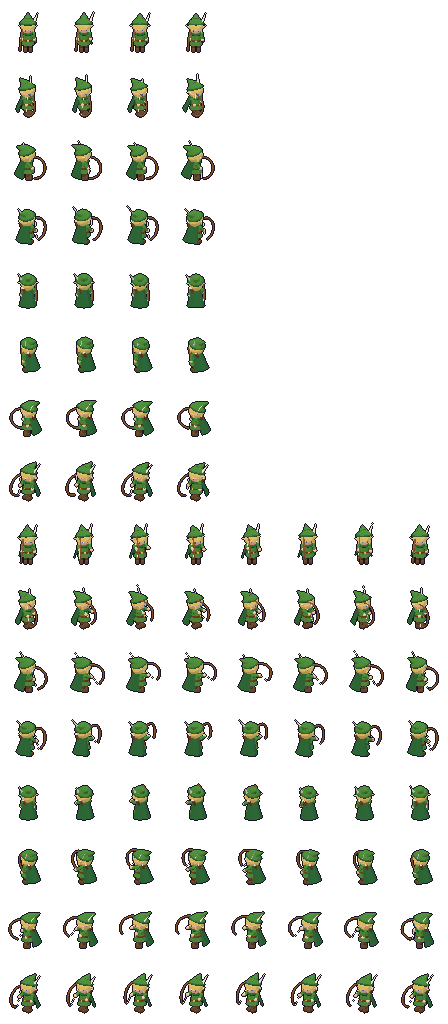
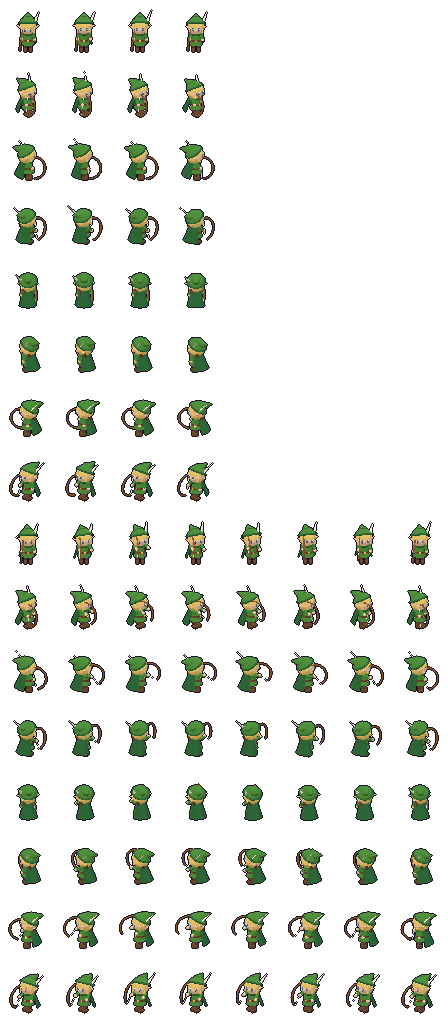
feat: readable sprite faces and full bat wings
- The sprite baker gives heroes a slightly bigger head tipped up toward the viewer and
  bigger eyes (sprites only), so hood and hat brims and fringes stop hiding the eyes.
  Eyes are now `eye` joints in the sculpted rig so the baker can find them.
- Bat wings are rebuilt like the art: an arm rising to a clawed wrist, fingers fanning
  out and a membrane scalloped between them, about as tall as wide, swept back so it
  still shows in profile. The Dread Gaze and Sky Sovereign get bigger spans, and the
  Dread Gaze bigger horns.
- All sprite sheets re-baked.

diff --git a/src/app/game/battle-map/battlefield-models.ts b/src/app/game/battle-map/battlefield-models.ts
@@ -364,12 +364,13 @@ function humanoid(root: THREE.Group, p: Palette, o: Outfit): Rig {
   };
 }
 
-/** Big chibi eyes: dark ovals with a catch-light. */
+/** Big chibi eyes: dark ovals with a catch-light. Named `eye` so the sprite baker can find them. */
 function eyes(head: THREE.Object3D, p: Palette, iris = 0x2b2140, y = -0.035, gap = 0.068): void {
   for (const side of [-1, 1]) {
     const z = Math.sqrt(HEAD_R ** 2 - gap ** 2 - y ** 2) - 0.004;
-    put(head, ball(0.026), p.paint(iris), [side * gap, y, z], undefined, [0.75, 1.25, 0.5]);
-    put(head, ball(0.008), p.paint(0xffffff), [side * gap + 0.008, y + 0.012, z + 0.011]);
+    const eye = joint(head, 'eye', [side * gap, y, z]);
+    put(eye, ball(0.026), p.paint(iris), [0, 0, 0], undefined, [0.75, 1.25, 0.5]);
+    put(eye, ball(0.008), p.paint(0xffffff), [0.008, 0.012, 0.011]);
   }
 }
 
@@ -1525,7 +1526,11 @@ function pyreCore(root: THREE.Group, p: Palette): void {
   }
 }
 
-/** Bat-like wing membrane with finger spars; extends along +x, mirrored for the left side. */
+/**
+ * Bat wing: an arm rising to a clawed wrist, fingers fanning out from it, and a membrane
+ * scalloped between their tips, about as tall as it is wide like the art's. Extends along +x,
+ * mirrored for the left side.
+ */
 function batWing(
   root: THREE.Object3D,
   p: Palette,
@@ -1536,15 +1541,26 @@ function batWing(
   spar: number,
 ): void {
   const wing = joint(root, side < 0 ? 'wing-left' : 'wing-right', at);
+  // Swept back, so the membrane still shows in profile instead of thinning to a line
+  wing.rotation.y = side * 0.5;
+  const shoulder: [number, number] = [0, 0.06];
+  const wrist: [number, number] = [0.36, 0.5];
+  const fingers: [number, number][] = [
+    [1, 0.56],
+    [0.86, -0.04],
+    [0.56, -0.3],
+  ];
   const points: [number, number][] = [
-    [0, 0.08],
-    [0.45, 0.42],
-    [1, 0.3],
-    [0.82, 0.05],
-    [0.62, -0.12],
-    [0.42, 0.02],
-    [0.22, -0.16],
-    [0.08, -0.08],
+    shoulder,
+    wrist,
+    fingers[0],
+    [0.76, 0.26],
+    fingers[1],
+    [0.6, 0.05],
+    fingers[2],
+    [0.36, -0.05],
+    [0.16, -0.24],
+    [0.04, -0.08],
   ];
   const shape = points.map(([x, y]): [number, number] => [side * x * span, y * span]);
   put(
@@ -1553,22 +1569,30 @@ function batWing(
     p.paint(membrane, true),
     [0, 0, 0],
   );
-  for (const [x, y] of [
-    [0.45, 0.42],
-    [1, 0.3],
-    [0.62, -0.12],
-    [0.22, -0.16],
-  ]) {
-    const length = Math.hypot(x, y) * span;
+  const bone = p.paint(spar);
+  const thick = 0.012 * (span / 0.5);
+  const strut = (from: [number, number], to: [number, number], scale = 1) => {
+    const length = Math.hypot(to[0] - from[0], to[1] - from[1]) * span;
     aim(
       wing,
-      limb(0.012 * (span / 0.5), length),
-      p.paint(spar),
-      [0, 0, 0.01],
-      [side * x, y, 0],
+      limb(thick * scale, length),
+      bone,
+      [side * from[0] * span, from[1] * span, 0.01],
+      [side * (to[0] - from[0]), to[1] - from[1], 0],
       length,
     );
-  }
+  };
+  strut(shoulder, wrist, 1.4);
+  for (const tip of fingers) strut(wrist, tip);
+  const claw = 0.07 * span;
+  aim(
+    wing,
+    spike(thick * 1.5, claw, 5),
+    bone,
+    [side * wrist[0] * span, wrist[1] * span, 0.01],
+    [side * 0.3, 1, 0],
+    claw,
+  );
 }
 
 function dreadGaze(root: THREE.Group, p: Palette): void {
@@ -1590,12 +1614,12 @@ function dreadGaze(root: THREE.Group, p: Palette): void {
       [side * 0.3, 0.1, -0.8],
     ];
     dirs.forEach((dir, i) => {
-      const length = 0.11 - i * 0.015;
-      aim(root, spike(0.045 - i * 0.012, length + 0.02, 8), horn, from, dir, length + 0.02);
+      const length = 0.15 - i * 0.02;
+      aim(root, spike(0.058 - i * 0.015, length + 0.02, 8), horn, from, dir, length + 0.02);
       const d = new THREE.Vector3(...dir).normalize().multiplyScalar(length);
       from = [from[0] + d.x, from[1] + d.y, from[2] + d.z];
     });
-    batWing(root, p, side, [side * 0.2, 0.58, -0.1], 0.5, 0x9c2b2b, 0x5a1a1a);
+    batWing(root, p, side, [side * 0.2, 0.56, -0.1], 0.6, 0x9c2b2b, 0x5a1a1a);
   }
   // Small dangling limbs
   for (const side of [-1, 1]) {
@@ -1835,7 +1859,7 @@ function skySovereign(root: THREE.Group, p: Palette): void {
   }
   // Broad wings and a long tapering tail
   for (const side of [-1, 1])
-    batWing(body, p, side, [side * 0.15, 0.12, -0.05], 0.62, 0x3fb3a8, 0x1f6f75);
+    batWing(body, p, side, [side * 0.15, 0.12, -0.05], 0.85, 0x3fb3a8, 0x1f6f75);
   const tail = joint(body, 'tail', [0, -0.02, -0.26]);
   let from: Vec = [0, 0, 0];
   for (let i = 0; i < 4; i++) {
